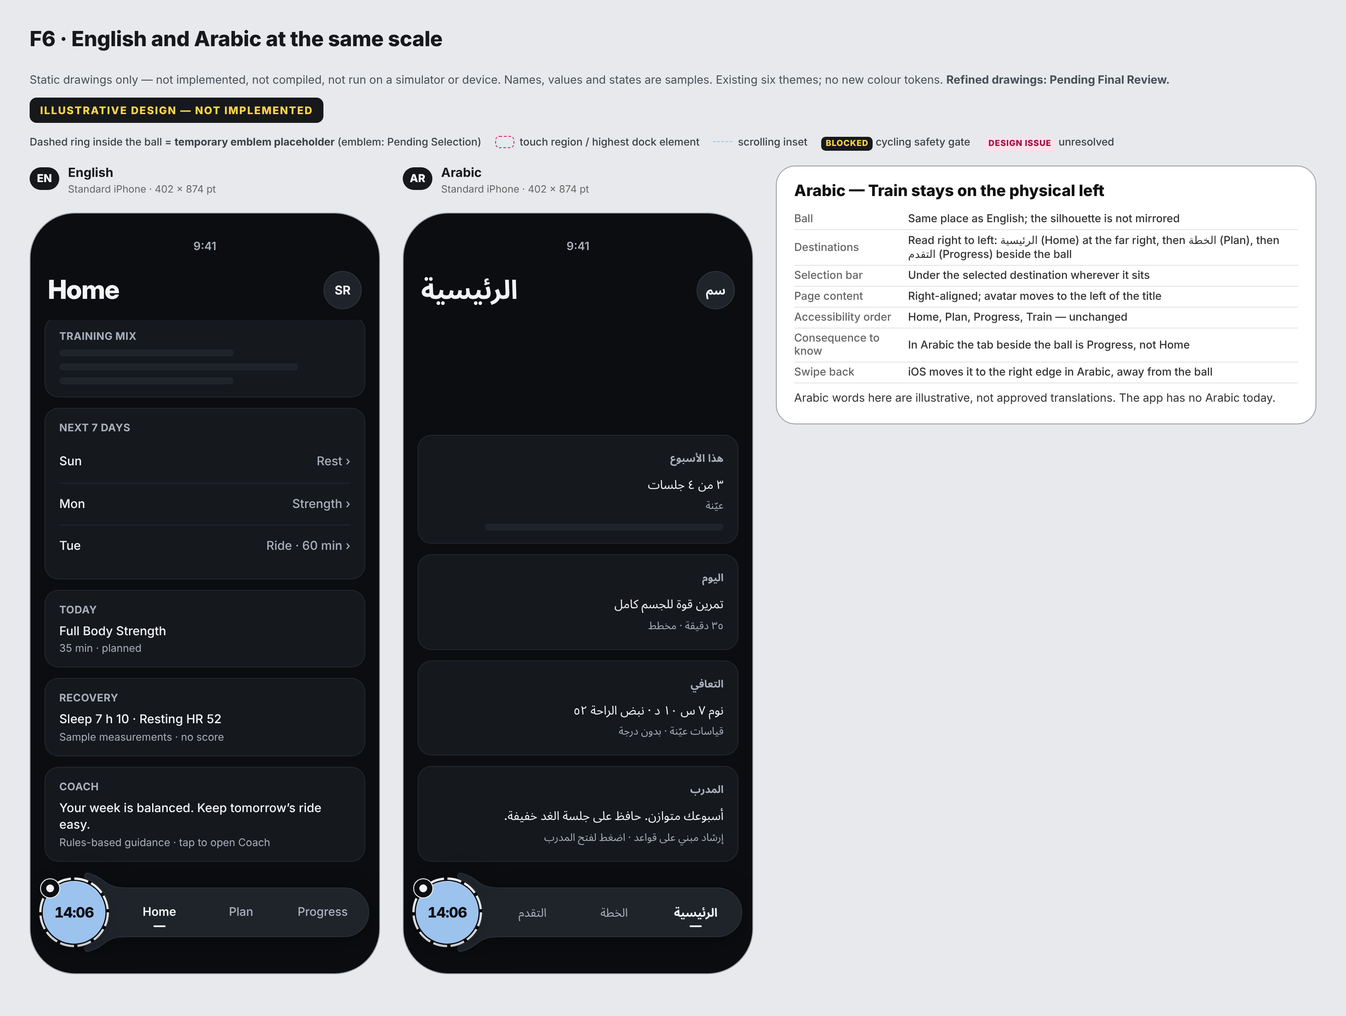
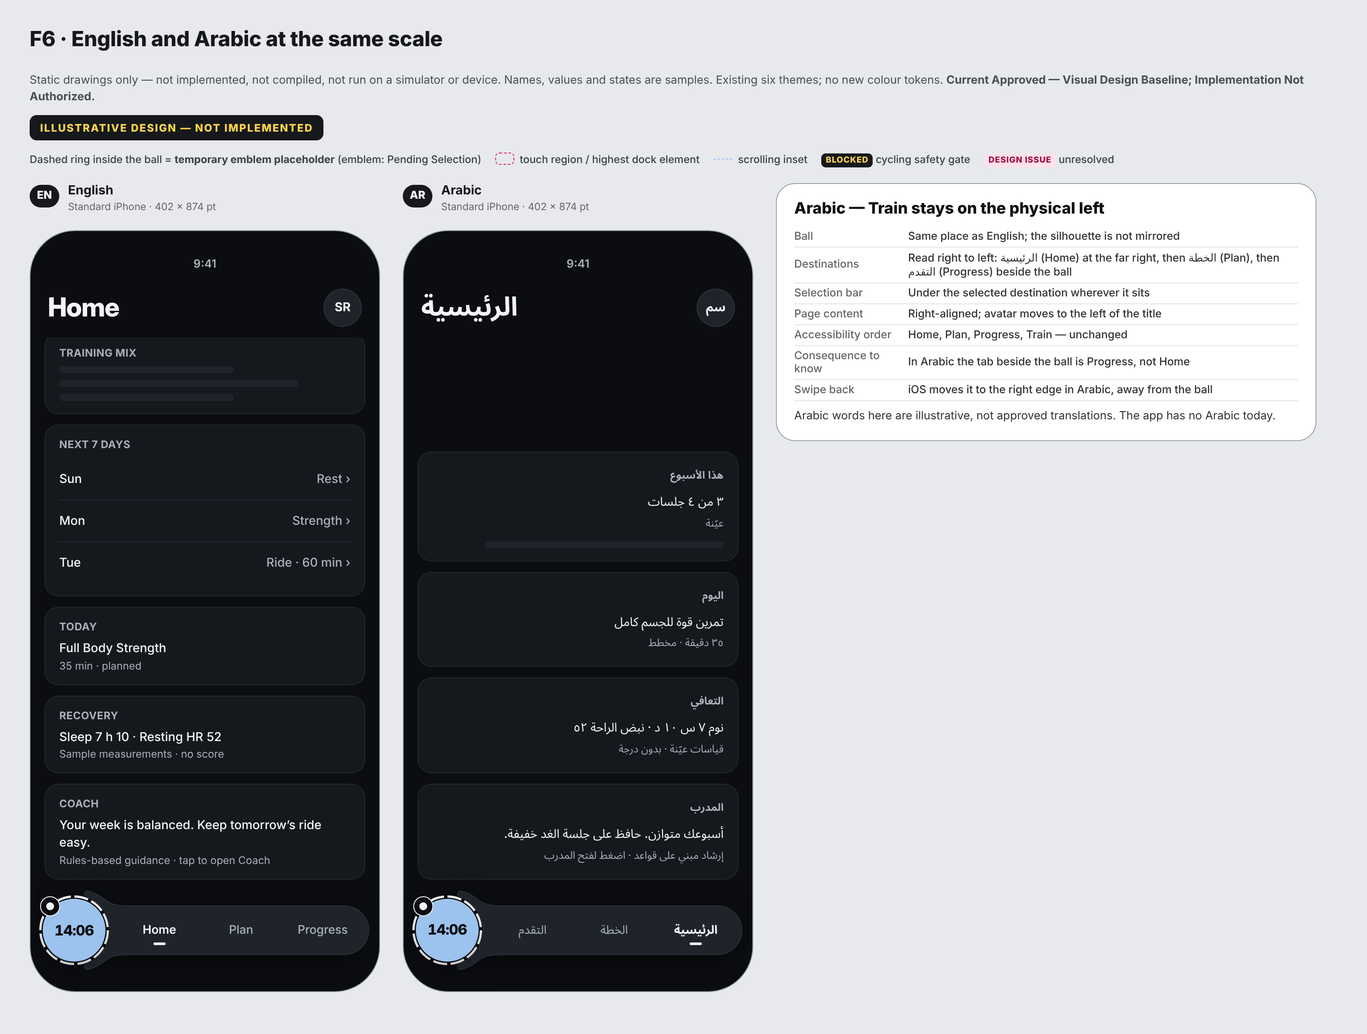
Navigation v1.2 approved as visual design baseline: specification rev 1.1, corrected sheets, decision addendum (design only)
Claude-Session: https://claude.ai/code/session_01VPyyHayv5ss1H7GPN6bX6o

diff --git a/product/profile/nav-v12/final/NAVIGATION_V12_FINAL_VISUAL_SPECIFICATION.md b/product/profile/nav-v12/final/NAVIGATION_V12_FINAL_VISUAL_SPECIFICATION.md
@@ -1,7 +1,7 @@
 # Navigation v1.2 — Final Visual Specification
 
-**Revision:** 1.0 · 15 Nov 2026 · finalisation of `../NAVIGATION_V12_LEFT_TRAIN_CRADLE.md` (v0.1, kept unchanged as the exploration record)
-**Status:** Navigation v1.2 visual direction — **Selected Visual Direction** (owner, 15 Nov 2026). Refined drawings in this revision — **Pending Final Review**.
+**Revision:** 1.1 · 15 Nov 2026 (supersedes rev 1.0 of this same file; rev 1.0 is in the branch history at commit 7cea4de0) · finalisation of `../NAVIGATION_V12_LEFT_TRAIN_CRADLE.md` (v0.1, kept unchanged as the exploration record)
+**Status:** Navigation v1.2 — **Current Approved — Visual Design Baseline; Implementation Not Authorized** (owner's final design decision, 15 Nov 2026).
 **Implementation: NOT STARTED and NOT AUTHORISED.** Designed only. Nothing here was implemented, compiled, simulator-tested or device-tested. All figures are **drawing targets**, not measurements from running software. **ILLUSTRATIVE DESIGN — NOT IMPLEMENTED.**
 
 Related status (unchanged by this document): Train emblem — Pending Selection · Training Hub v1.4 — Current Approved, Design Baseline, Implementation Not Authorised · Cycling minimisation — Blocked Pending Safety Gate · Production navigation — Unchanged · v1.0 and v1.1 — historical design records, preserved.
@@ -15,11 +15,11 @@ Three navigation tabs and one primary control, left to right: **Train ball — H
 |---|---|---|---|
 | Train ball (true circle) | 72 | 72 | 72 |
 | Capsule height | 56 | 56 | 56 |
-| Total silhouette height | **90.2** | 90.2 | ≈ 91–92 — **1–2 pt under; flagged** |
+| Total silhouette height | **90.2** | 90.2 | accepted by the owner at 90.2 (not to be altered to reach 91–92) |
 | Ball embraced | 33 % | 33 % | ≈ 33 % |
 | Ring gap | 5 | 5 | 5 |
 | Ball to nearest tab region | 15 | 15 | ≥ 15 |
-| Tab touch regions | 3 × 93.67 × 48 | 3 × 84.67 × 48 | 94 × 48 / 85 × 48 (rounded) |
+| Tab touch regions | 3 × 93.67 × 48 | 3 × 84.67 × 48 | 94 × 48 / 85 × 48 (rounded); small-iPhone width accepted **subject to future running-device validation** |
 | Side margins / capsule end inset | 14 / 6 | 14 / 6 | — |
 | Ball bottom / capsule bottom above screen bottom | 34 / 42 | 16 / 24 | — |
 | Capsule top / ball top / badge top | 98 / 106 / 109 | 80 / 88 / 91 | — |
@@ -47,12 +47,13 @@ Position and size never change. States differ by ring construction and badge in 
 | Save unsuccessful / uncertain | placeholder | dotted | "!" | **design issue** — no confirmation behaviour promised |
 | Interrupted / restored | time only | split | "↺" | **design issue** — no persistence guarantee made |
 
-**Timer:** under one hour MM:SS at 16.5 pt (14:06 and 59:59 measure 45 pt wide). From one hour — proposed **"1h04"** at the same 16.5 pt (40 pt wide); alternatives on F4: 1:04:36 at 13.5 pt (48 pt), or 1:04 with an "h : min" caption. Text is never shrunk further. Full duration stays in the recorder. The timer is never the only running/paused signal. Legibility judged from drawings only.
+**Timer (approved):** under one hour MM:SS; from one hour the “1h04” style (hours, small “h”, minutes). Both at 16.5 pt; the text never shrinks. Measured in the drawings: 14:06 and 59:59 are 45 pt wide, 1h04 is 40 pt, 10h12 is 50 pt, in a 72 pt ball. Exact seconds remain inside the recorder. The timer is never the only running/paused signal. Legibility judged from drawings only.
 
 ## 5. Dynamic Type and accessibility
 - Touch regions never move or resize with text size or selection.
-- Normal: words. Larger: words grow in place to 19 pt (standard) / 17 pt (small). Accessibility sizes: selected destination keeps its word at 26 pt / 23 pt; unselected show icons with full accessible names. No truncation. The 17 pt cap is removed as a general rule.
-- **Design issue:** "Progress" at 26 pt is 112 pt wide (99 pt at 23 pt) — wider than its region. It is right-aligned and its drawing overhangs the Plan region by 25 pt (21 pt); the Plan icon is drawn 12 pt off-centre in that case. Touch regions are unaffected. Alternative: 20 pt / 18 pt word that fits.
+- Normal: words. Larger: words grow in place to 19 pt (standard) / 17 pt (small). Accessibility sizes: selected destination keeps its word at **20 pt (standard) / 18 pt (small)**, always inside its own region; unselected show icons with full accessible names. No truncation. The 17 pt cap is removed as a general rule.
+- Widest word: "Progress" measures 86 pt at 20 pt in a 93.7 pt region, and 78 pt at 18 pt in an 84.7 pt region. Nothing overhangs a neighbouring region (the 26 pt overhanging version of rev 1.0 is withdrawn by owner decision).
+- **Design issue:** the selected word at accessibility sizes is smaller than the system's largest text; the large-label preview covers the rest. The timer does not scale; the spoken name carries it.
 - **VoiceOver order:** Home, Plan, Progress, Train (both languages). Tabs: trait tab + selected. Train: button whose name carries the state (e.g. "Train, no active session"; "Strength workout recording, 14 minutes elapsed"; "Workout paused, 14 minutes elapsed"; "Workout finished, awaiting save confirmation" — illustrative; final wording must match supported states). Cradle, arms, ring, badge and bar are not accessibility elements.
 - **Voice Control:** four names. **Switch Control:** four stops, one group. **Large-label preview** on long-press. **Reduce Motion:** fades and instant swaps; rings never animate.
 - **High Contrast:** shape and line carry every state.
@@ -70,20 +71,30 @@ One path for Obsidian, Arctic, Ocean, Forest, Sandstone, High Contrast. Tokens u
 Home / Plan / Progress → Train → Compact Panel → Expanded Hub → Preparation → Recording → Minimised → Resumed → Finish → Save → Optional Review. One active session at a time; resuming never creates a second session; a ride must be paused before Finish; ride minimisation blocked; save-uncertain and restored paths are pending. The current app uses numbered destinations and a hidden Ride screen; these are not assumed removable (see the technical impact register). The left-edge placement is flagged for physical-device swipe-back testing. The Train control must never take a tap meant for Home or a system gesture.
 
 ## 10. Acceptance criteria (proposed design acceptance checklist)
-**Geometry** — G1 ball 72 pt and circular · G2 capsule 56 pt · G3 silhouette 90–92 pt · G4 embrace 31–35 % · G5 ring gap 5 pt, ring unobstructed · G6 one continuous outline, no visible joint, tips rounded, no hook · G7 no depth or ball increase versus v1.2.
+**Geometry** — G1 ball 72 pt and circular · G2 capsule 56 pt · G3 silhouette 90.2 pt (± 0.5) · G4 embrace 31–35 % · G5 ring gap 5 pt, ring unobstructed · G6 one continuous outline, no visible joint, tips rounded, no hook · G7 no depth or ball increase versus v1.2.
 **Touch** — T1 three equal tab regions, 93.7 × 48 (standard) and 84.7 × 48 (small) · T2 ≥ 15 pt ball-to-region · T3 no overlap between regions, ball or edges · T4 arms take no touches · T5 regions identical at all text sizes and selections.
-**States** — S1 ball position identical in every state · S2 each state distinguishable in greyscale and High Contrast · S3 active shows time only; idle shows no timer or badge · S4 timer never below 16.5 pt under an hour; agreed format over an hour · S5 uncertain save never resembles saved.
-**Accessibility** — A1 order Home, Plan, Progress, Train · A2 names present for icon tabs · A3 no truncation at any size · A4 decorative parts hidden from assistive technology · A5 Reduce Motion behaviour as specified · A6 Voice Control and Switch Control reach four targets.
+**States** — S1 ball position identical in every state · S2 each state distinguishable in greyscale and High Contrast · S3 active shows time only; idle shows no timer or badge · S4 timer 16.5 pt in both formats: MM:SS under an hour, 1h04 style from one hour · S5 uncertain save never resembles saved.
+**Accessibility** — A1 order Home, Plan, Progress, Train · A2 names present for icon tabs · A3 no truncation at any size; the selected word never leaves its own region · A4 decorative parts hidden from assistive technology · A5 Reduce Motion behaviour as specified · A6 Voice Control and Switch Control reach four targets.
 **Clearance** — C1 last interactive item on Home, Plan, Progress clears the arms at end of scroll (≥ 12 pt) on both sizes · C2 insets 128 / 110 pt · C3 nothing floats over the keyboard; dock returns intact.
 **Language and theme** — L1 Arabic keeps the ball left, order adapted, indicator aligned · L2 six themes share one geometry, existing tokens only.
 **Safety and scope** — X1 one session at a time; resume never duplicates · X2 ride Finish only after Pause · X3 cycling minimisation shown as blocked · X4 no emblem presented as approved · X5 production navigation unchanged.
 **For later, on real hardware (cannot be passed from drawings):** swipe-back at the left edge, timer legibility in use, thumb reach, mis-taps between ball and Home.
-Self-assessment from the drawings: all met **except** G3 (90.2 pt, flagged), and the open design issues in sections 4, 5 and 7.
+Self-assessment from the drawings: all met. Open design issues remain in sections 4, 5 and 7, and the hardware-only checks above are outstanding.
 
 ## 11. Decision ledger
-**Selected (owner, 15 Nov):** Train at the physical left · medium cradle with softened shoulder · time only in the ball while active · small-iPhone 85 × 48 regions with a 72 pt ball · adaptive text, 17 pt cap removed, fixed touch regions · VoiceOver order Home, Plan, Progress, Train · Arabic fixed-left · insets ≈ 128 / 110 · Profile via Home avatar, Home stays selected.
-**Pending owner review:** the refined drawings in this revision · silhouette 90.2 pt versus 91–92 · over-one-hour timer format · "Progress" overhang versus a smaller word · no active-session sign while the keyboard is up · retiring the Home quick menu (register 51) · Train emblem · Arabic translations.
-**Requires future engineering approval:** any navigation implementation; route and presenter changes; test changes; cycling minimisation safety gate; save-result handling and recovery; interrupted-session persistence; physical-device swipe-back test; UI Lab prototype.
+**Approved by the owner (final design decision, 15 Nov):** Train at the physical far left · Home, Plan, Progress in the connected sculpted capsule · softened medium cradle with tapered arms, 72 pt ball, 33 % embrace, 5 pt ring gap · silhouette 90.2 pt as measured · timer MM:SS under one hour and 1h04 style beyond · selected label at accessibility sizes fits its own region (20 / 18 pt) · 85 pt tab regions on the small iPhone, subject to running-device validation · Train stays left in Arabic with text direction and reading order adapted · six themes, accessibility and content-clearance requirements retained · emblem remains unselected, labelled placeholder.
+**Still pending owner decision:** Train emblem · Arabic translations · retiring the Home quick menu (conflict register 51) · whether any active-session sign should show while the keyboard is up.
+**Unresolved technical dependencies (kept visible; none is resolved by this approval):**
+1. **Cycling minimisation** — Blocked Pending Safety Gate (GPS-route integrity, interrupted-ride persistence).
+2. **Existing numbered navigation routes** — five numbered pages with a hidden Ride page; tests bound to them; not assumed removable (conflict register 57).
+3. **Two open test failures** — ride GPS-route samples and Plan edit-and-apply, from simulator run 43013897973; open defects, not investigated.
+4. **Uncertain-save behaviour** — the state is drawn; no confirmation or recovery behaviour exists or is promised.
+5. **Physical-device gesture testing** — swipe-back at the left edge beside the ball; also thumb reach, mis-taps beside Home, timer legibility, and the 85 pt small-iPhone regions.
+6. Interrupted-session persistence; save-result handling; the other Training Hub v1.4 pending items.
+**Requires future engineering approval:** any implementation, route or presenter change, test change, UI Lab prototype.
+
+## 11a. Changes in revision 1.1
+Accessibility selected word 26 / 23 pt → 20 / 18 pt, fitted inside its region (overhang and off-centre Plan icon removed) · timer card shows the approved rule only (1h04, 2h30, 10h12; the two rejected alternatives removed) · silhouette height recorded as accepted · sheet status line updated · drawing corrections: duplicate frame codes on F7 (Plan and Progress rows) renamed PL / PR; the Progress "part-way" frame on F7 showed an impossible over-scrolled position and now shows the true midpoint; a dimension label on F2 that sat on the home-indicator line was moved and a redundant "6" marker removed (the 6 pt figure remains in the width budget). No other visual changes.
 
 ## 12. Sheets (`sheets/`)
 F1 final cradle and comparison with previous v1.2 · F2 small iPhone and dimension overlays · F3 six themes · F4 states and timer · F5 Dynamic Type and accessibility · F6 English and Arabic · F7a/F7b content clearance, keyboard, large text · F8 comparison with the right-hand navigation · F9 interaction diagram.

diff --git a/governance/DOCUMENTATION_INDEX.md b/governance/DOCUMENTATION_INDEX.md
@@ -1,6 +1,6 @@
 # Documentation index — which file governs each subject
 
-Status: Current Draft · Version 1.2 · 15 Nov 2026
+Status: Current Draft · Version 1.3 · 15 Nov 2026
 
 Statuses: **Current Approved** · **Current Draft** · **Historical** · **Superseded** · **Pending Review**.
 Statuses below are recorded **here only** — no existing file was edited to add them. Only the owner assigns
@@ -49,7 +49,7 @@ project (reference copies and documents not yet in GitHub).
 | **Profile — Phase 0 audit and proposed information architecture** (read-only; active design workstream from 14 Nov 2026) | `product/profile/PROFILE_PHASE0_AUDIT_AND_IA.md` v0.1 | gov | Current Draft — pending owner review; no screens designed |
 | **Profile and global navigation — design v1.0** (owner decision D: three tabs, Train on the right, Profile from the Home avatar; five Profile sections; seven sheets; route map; dependency assessment; decision register) | `product/profile/PROFILE_AND_NAVIGATION_V1_DESIGN.md` v0.1 (+ `product/profile/sheets/`); decision: `decisions/2026-11-14_navigation-decision-d-three-tabs-train-right-profile-via-avatar.md` | gov | Current Draft — pending owner review; illustrative, not implemented |
 | **Navigation v1.1 — sculpted Train cradle** (correction to P1 of v1.0: one silhouette, three measured depths, medium suggested; four sheets; owner sketch not received) | `product/profile/nav-v11/NAVIGATION_V11_SCULPTED_CRADLE.md` v0.1 (+ `product/profile/nav-v11/sheets/`) | gov | Historical — design record (right-hand placement replaced by the decision of 15 Nov); kept unchanged |
-| **Navigation v1.2 — final visual specification** (Train ball left, medium cradle, softened shoulder; ten sheets F1–F9; acceptance checklist; decision ledger) | `product/profile/nav-v12/final/NAVIGATION_V12_FINAL_VISUAL_SPECIFICATION.md` rev 1.0 (+ `final/sheets/`, `final/interaction_flow.mmd`); technical impact: `product/profile/nav-v12/final/NAVIGATION_V12_TECHNICAL_IMPACT_REGISTER.md` rev 1.0; decision: `decisions/2026-11-15_navigation-v12-train-left-selected-visual-direction.md` | gov | Visual direction: **Selected Visual Direction** (owner, 15 Nov) · refined drawings: **Pending Final Review** · emblem: Pending Selection · cycling minimisation: Blocked Pending Safety Gate · production navigation: Unchanged · implementation not authorised |
+| **Navigation v1.2 — final visual specification** (Train ball left, medium cradle, softened shoulder; ten sheets F1–F9; acceptance checklist; decision ledger) | `product/profile/nav-v12/final/NAVIGATION_V12_FINAL_VISUAL_SPECIFICATION.md` rev 1.1 (+ `final/sheets/`, `final/interaction_flow.mmd`); technical impact: `product/profile/nav-v12/final/NAVIGATION_V12_TECHNICAL_IMPACT_REGISTER.md` rev 1.0; decision: `decisions/2026-11-15_navigation-v12-train-left-selected-visual-direction.md` | gov | **Current Approved — Visual Design Baseline; Implementation Not Authorized** (owner's final design decision, 15 Nov) · emblem: Pending Selection · cycling minimisation: Blocked Pending Safety Gate · production navigation: Unchanged · implementation not authorised |
 | **Navigation v1.2 — Train ball on the left, sculpted cradle** (owner brief of 15 Nov, Option A; nine sheets; state diagram; measurements; acceptance self-assessment) | `product/profile/nav-v12/NAVIGATION_V12_LEFT_TRAIN_CRADLE.md` v0.1 (+ `product/profile/nav-v12/sheets/`) | gov | Historical — exploration record behind the selected direction; kept unchanged |
 | **Metrics** — schedule adherence, training fulfillment, actual volume | `product/metrics/PLAN_ADHERENCE_METRICS_PROPOSAL.md` v0.1 | gov | Current Draft (proposal; nothing calculated) |
 | **Plan** — earlier proposal (weekly calendar only) | `ui-lab/plan/PLAN_V1_PROPOSAL.md` | project | Pending Review (not marked Superseded) |
@@ -102,7 +102,7 @@ project (reference copies and documents not yet in GitHub).
 | `product/profile/PROFILE_AND_NAVIGATION_V1_DESIGN.md` | gov same path | 0.1 | 14 Nov 2026 |
 | `product/profile/nav-v11/NAVIGATION_V11_SCULPTED_CRADLE.md` | gov same path | 0.1 | 14 Nov 2026 |
 | `product/profile/nav-v12/NAVIGATION_V12_LEFT_TRAIN_CRADLE.md` | gov same path | 0.1 | 15 Nov 2026 |
-| `product/profile/nav-v12/final/NAVIGATION_V12_FINAL_VISUAL_SPECIFICATION.md` | gov same path | 1.0 | 15 Nov 2026 |
+| `product/profile/nav-v12/final/NAVIGATION_V12_FINAL_VISUAL_SPECIFICATION.md` | gov same path | 1.1 | 15 Nov 2026 |
 | `product/profile/nav-v12/final/NAVIGATION_V12_TECHNICAL_IMPACT_REGISTER.md` | gov same path | 1.0 | 15 Nov 2026 |
 | `decisions/2026-11-15_navigation-v12-train-left-selected-visual-direction.md` | gov same path | — | 15 Nov 2026 |
 | `decisions/2026-11-14_navigation-decision-d-three-tabs-train-right-profile-via-avatar.md` | gov same path | — | 14 Nov 2026 |

diff --git a/governance/CONFLICT_REGISTER.md b/governance/CONFLICT_REGISTER.md
@@ -1,6 +1,6 @@
 # Conflict register
 
-Status: Current Draft · Version 1.0 · 15 Nov 2026
+Status: Current Draft · Version 1.1 · 15 Nov 2026
 Each entry: the original conflict, the decision, the rationale and the resolution status.
 "Decided" means the owner has ruled; "Applied in docs" means the new documents follow the ruling. No application code,
 firmware or existing document was changed to apply a ruling.
@@ -61,11 +61,11 @@ firmware or existing document was changed to apply a ruling.
 | 51 | Home quick menu | Profile quick menu approved in the 6 Nov addendum (avatar opens a menu) vs decision D (avatar opens the complete Profile) | Decision D proposes retiring the quick menu. Home is otherwise frozen, so this needs explicit confirmation | Latest explicit owner decision | **Open** — Profile design decision 9 |
 | 52 | Profile sections | Phase 0 proposal (seven sections) vs owner brief (five sections) | Owner's five. The Phase 0 document is kept unchanged | Later owner instruction | Decided |
 | 53 | Train symbol | v1.4 candidates (Shift, Step, Frame) vs brief of 14 Nov (none approved; explore new symbols) | New candidates Mono, Cleave, Apex. None approved. The emblem stays pending under v1.4 | Later owner instruction | **Open** — updates items 43, 46, 49 |
-| 54 | Side of the Train control | Owner decision D of 14 Nov and Navigation v1.1 (Train at the far right) vs owner instruction of 15 Nov (Train at the far left) | Left. Decision of 15 Nov supersedes **only** the placement clause of Decision D; the rest of D, and v1.0 / v1.1 as historical records, stand unedited | Latest explicit owner decision | **Decided** · Selected Visual Direction · refined drawings Pending Final Review · production navigation unchanged |
+| 54 | Side of the Train control | Owner decision D of 14 Nov and Navigation v1.1 (Train at the far right) vs owner instruction of 15 Nov (Train at the far left) | Left. Decision of 15 Nov supersedes **only** the placement clause of Decision D; the rest of D, and v1.0 / v1.1 as historical records, stand unedited | Latest explicit owner decision | **Decided** · Navigation v1.2 is Current Approved — Visual Design Baseline; Implementation Not Authorized · production navigation unchanged |
 | 55 | Arabic layout of the dock | Navigation v1.1 (mirrored, ball at the far left in Arabic) and v1.2 exploration (two alternatives) vs owner instruction of 15 Nov (Train stays on the physical left; not mirrored) | Fixed left. Arabic labels remain illustrative | Latest explicit owner decision | Decided · design only |
-| 56 | Large-text rule | v1.1 (tab words capped at 17 pt) and v1.2 exploration (selected tab widens, icon tabs shift) vs owner instruction of 15 Nov (no cap; touch regions must not shift) | Adaptive text with fixed, equal touch regions. Open point: "Progress" at 26 pt overhangs its region in the drawing | Latest explicit owner decision | Decided; overhang **Open** |
+| 56 | Large-text rule | v1.1 (tab words capped at 17 pt) and v1.2 exploration (selected tab widens, icon tabs shift) vs owner instruction of 15 Nov (no cap; touch regions must not shift) | Adaptive text with fixed, equal touch regions. Owner ruled (final decision, 15 Nov): the selected word must fit its own region — 20 pt standard / 18 pt small | Latest explicit owner decision | Decided · applied in rev 1.1 |
 | 57 | Numbered destinations and the hidden Ride page | Selected three-tab design vs the app as read (five numbered pages, Ride hidden at 2, Profile at 4, tests bound to `tabPage-<i>` and `centreButton`) | Not resolved. Routes are not assumed removable; an implementation audit and engineering approval are required first | Master instructions §3, §10 | **Open** — future engineering |
-| 58 | Silhouette height | Owner target ≈ 91–92 pt vs final refinement drawn at 90.2 pt | Flagged for the owner; depth and ball were not increased to make up the difference | Owner instruction: do not enlarge for drama | **Open** — owner review |
+| 58 | Silhouette height | Owner target ≈ 91–92 pt vs final refinement drawn at 90.2 pt | Owner accepted 90.2 pt; geometry is not to be altered to reach 91–92 | Owner instruction: do not enlarge for drama | Decided |
 
 ## Summary of what is still unresolved
 

diff --git a/decisions/2026-11-15_navigation-v12-train-left-selected-visual-direction.md b/decisions/2026-11-15_navigation-v12-train-left-selected-visual-direction.md
@@ -24,3 +24,22 @@ Implementation, production navigation or route changes, release-branch changes, 
 
 ## Documents
 `product/profile/nav-v12/final/NAVIGATION_V12_FINAL_VISUAL_SPECIFICATION.md` (rev 1.0) · `…/NAVIGATION_V12_TECHNICAL_IMPACT_REGISTER.md` (rev 1.0) · `…/final/sheets/` · earlier exploration: `product/profile/nav-v12/NAVIGATION_V12_LEFT_TRAIN_CRADLE.md` (v0.1).
+
+
+---
+## Addendum — Final design decision (owner, 15 Nov 2026, later the same day)
+Added below the original record; the text above is unchanged and describes the earlier "Selected Visual Direction" step.
+
+The owner reviewed the Final Design Review Package and **accepted Navigation v1.2** with these final decisions: Train at the far left; Home, Plan, Progress in the connected sculpted capsule; softened medium cradle with tapered arms, 72 pt ball, 33 % embrace, 5 pt ring gap; silhouette height accepted at the measured 90.2 pt; timer MM:SS under one hour and 1h04 style beyond, exact seconds in the recorder; at accessibility sizes the selected label fits within its own region (20 pt alternative, not the overhanging 26 pt); 85 pt tab regions on the small iPhone, subject to future running-device validation; Train stays physically left in Arabic; six themes and existing accessibility and content-clearance requirements retained; the Train emblem remains unselected with a labelled placeholder.
+
+| Item | Status now |
+|---|---|
+| Navigation v1.2 | **Current Approved — Visual Design Baseline; Implementation Not Authorized** |
+| Specification | `product/profile/nav-v12/final/NAVIGATION_V12_FINAL_VISUAL_SPECIFICATION.md` rev 1.1 |
+| Train emblem | Pending Selection |
+| Training Hub v1.4 | Current Approved — Design Baseline; Implementation Not Authorized |
+| Cycling minimisation | Blocked Pending Safety Gate |
+| Production navigation | Unchanged |
+
+**Unresolved technical dependencies kept open:** cycling minimisation; existing numbered navigation routes and hidden Ride page; the two open test failures (ride GPS-route samples, Plan edit-and-apply); uncertain-save behaviour; physical-device gesture testing.
+**Not authorised:** any implementation, production code change, UI Lab prototype, onboarding change, firmware change, database migration or TestFlight build.
